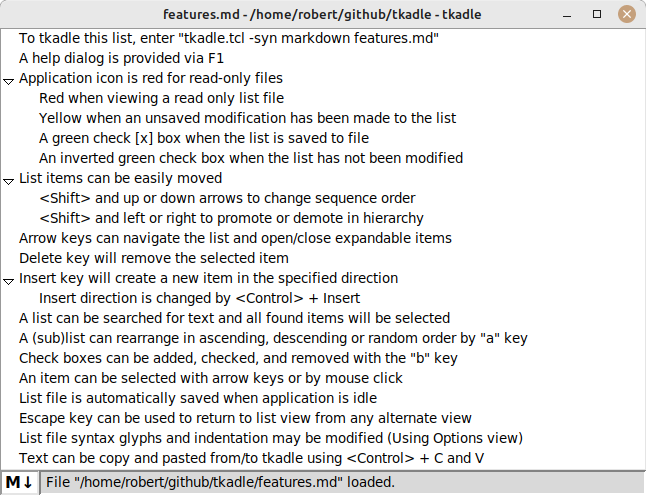
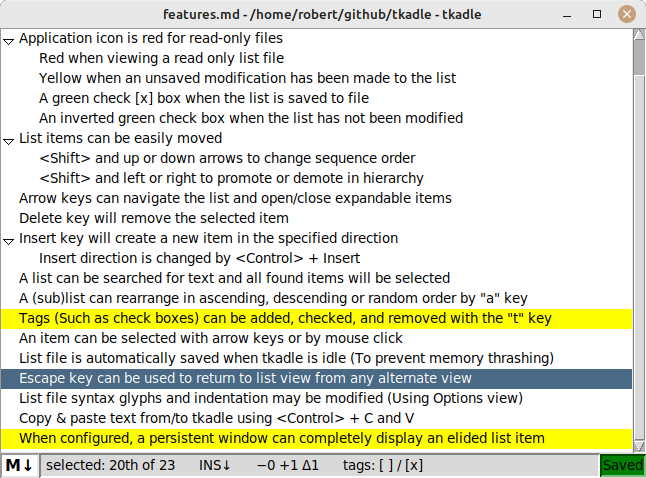
Updating list of features, and application image

diff --git a/features.md b/features.md
@@ -14,9 +14,10 @@
     + Insert direction is changed by <Control> + Insert
 * A list can be searched for text and all found items will be selected
 * A (sub)list can rearrange in ascending, descending or random order by "a" key
-* Check boxes can be added, checked, and removed with the "b" key
+* Tags (Such as check boxes) can be added, checked, and removed with the "t" key
 * An item can be selected with arrow keys or by mouse click
 * List file is automatically saved when tkadle is idle (To prevent memory thrashing)
 * Escape key can be used to return to list view from any alternate view
 * List file syntax glyphs and indentation may be modified (Using Options view)
 * Copy & paste text from/to tkadle using <Control> + C and V
+* When configured, a persistent window can completely display an elided list item
